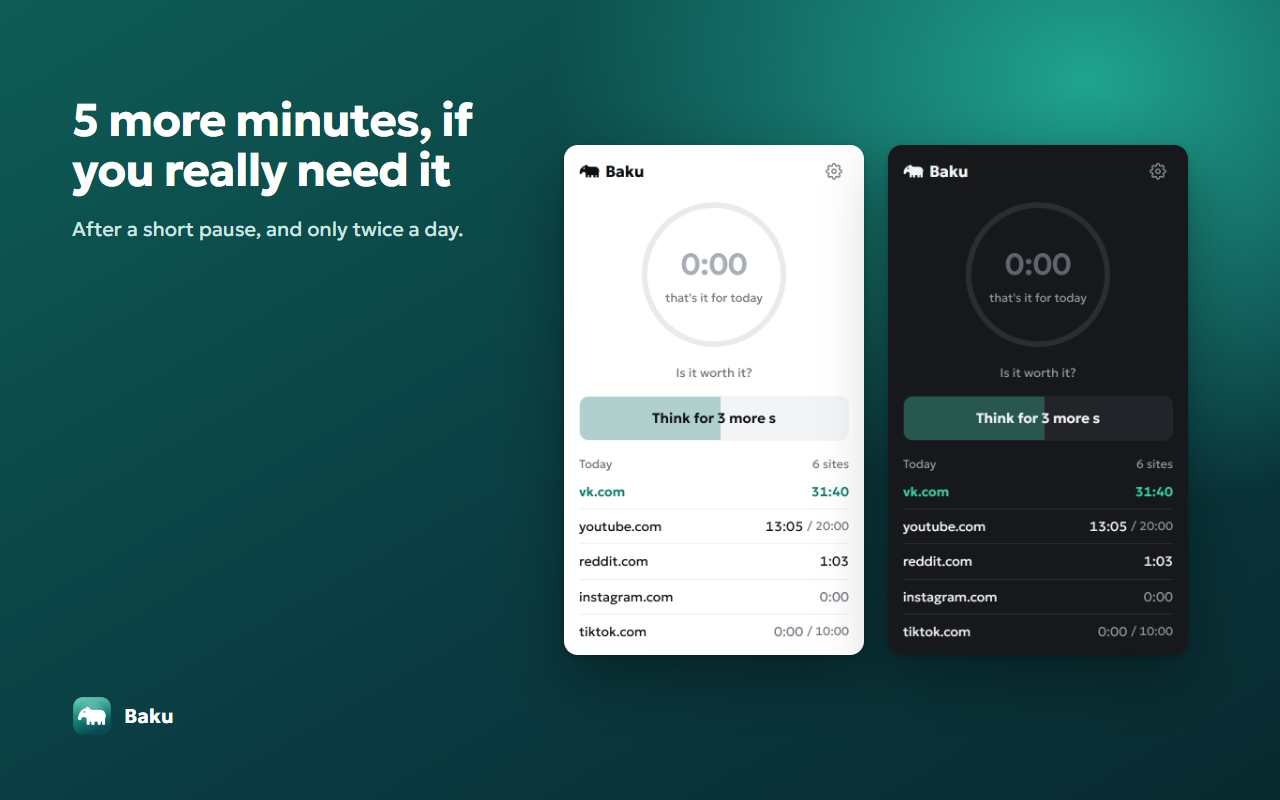
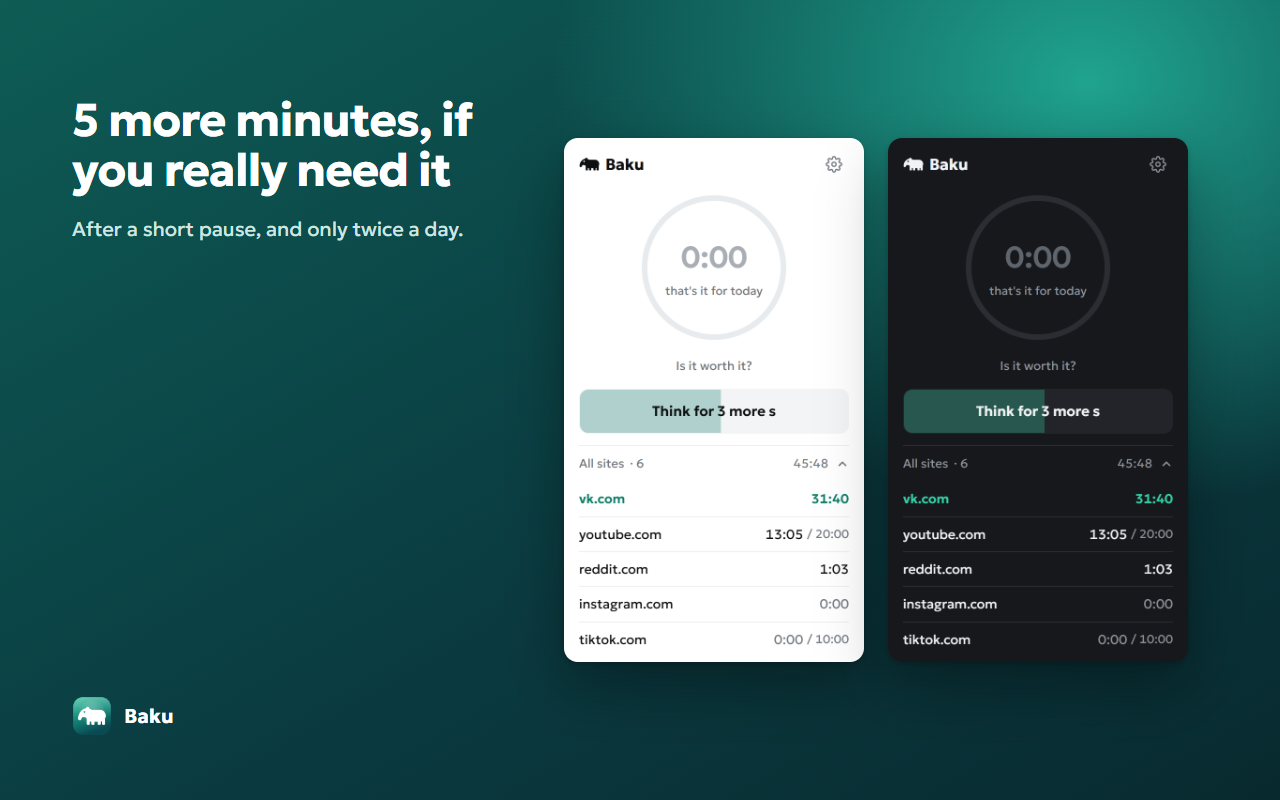
Fold the popup site list behind an 'All sites' toggle
The timer and the current site are what the popup is for; the list of
every tracked site grew the window with each site. It now sits behind a
row with the count and today's total, slides open like the settings editor
and remembers its state. Store screenshots show it unfolded.

Also add theme-color to the Pages site.

diff --git a/entrypoints/popup/main.ts b/entrypoints/popup/main.ts
@@ -76,6 +76,17 @@ async function init(): Promise<void> {
   $('cur-action').addEventListener('click', onCurrentAction);
   $('cur-switch').addEventListener('click', untrackCurrent);
   $('extra-btn').addEventListener('click', onExtra);
+  // The site list is secondary: folded by default, remembered per browser.
+  setListOpen(readListOpen());
+  $('today-toggle').addEventListener('click', () => {
+    const open = $('today').classList.contains('open');
+    setListOpen(!open);
+    try {
+      localStorage.setItem(LIST_OPEN_KEY, open ? '0' : '1');
+    } catch {
+      // Storage can be unavailable; the list just starts folded next time.
+    }
+  });
   $('pick-popular').addEventListener('click', () => {
     void browser.tabs.create({ url: browser.runtime.getURL('/welcome.html') });
     window.close();
@@ -251,7 +262,9 @@ function renderList(): void {
   const rows = [...settings.sites].sort(
     (a, b) => (usage.perSite[b] ?? 0) - (usage.perSite[a] ?? 0) || a.localeCompare(b),
   );
-  $('today-count').textContent = tp('popupSites', rows.length);
+  $('today-count').textContent = `· ${rows.length}`;
+  $('today-count').title = tp('popupSites', rows.length);
+  $('today-total').textContent = clock(rows.reduce((sum, s) => sum + (usage.perSite[s] ?? 0), 0));
   $('list').replaceChildren(
     ...rows.map((site) => {
       const secs = usage.perSite[site] ?? 0;
@@ -324,6 +337,21 @@ async function grantExtra(): Promise<void> {
 }
 
 // --- Helpers ---------------------------------------------------------------
+
+const LIST_OPEN_KEY = 'baku.listOpen';
+
+function readListOpen(): boolean {
+  try {
+    return localStorage.getItem(LIST_OPEN_KEY) === '1';
+  } catch {
+    return false;
+  }
+}
+
+function setListOpen(open: boolean): void {
+  $('today').classList.toggle('open', open);
+  $('today-toggle').setAttribute('aria-expanded', String(open));
+}
 
 function extensionsLeft(): number {
   return MAX_EXTENSIONS_PER_DAY - usage.extensionsUsed;

diff --git a/entrypoints/popup/style.css b/entrypoints/popup/style.css
@@ -300,12 +300,69 @@ button.ghost {
 
 .today-head {
   display: flex;
-  justify-content: space-between;
-  margin: 16px 0 2px;
-  font-size: 12.5px;
+  align-items: center;
+  gap: 8px;
+  width: 100%;
+  margin-top: 12px;
+  padding: 10px 0;
+  border: 0;
+  border-top: 1px solid var(--line);
+  border-radius: 0;
+  background: transparent;
   color: var(--muted);
+  font-size: 13px;
+  text-align: left;
 }
 
+.today-head:hover:not(:disabled) {
+  color: var(--text);
+  border-color: var(--line);
+}
+
+.today-head .label {
+  flex: 1;
+  display: flex;
+  gap: 6px;
+}
+
+.today-head .total {
+  font-variant-numeric: tabular-nums;
+}
+
+.today-head .chev {
+  transition: transform 0.2s ease;
+}
+
+.today.open .chev {
+  transform: rotate(180deg);
+}
+
+/* Folded by default; slides open like the editor in settings. */
+.list-wrap {
+  display: grid;
+  grid-template-rows: 0fr;
+  opacity: 0;
+  transition:
+    grid-template-rows 0.26s cubic-bezier(0.2, 0.7, 0.2, 1),
+    opacity 0.2s ease;
+}
+
+.list-wrap > div {
+  overflow: hidden;
+  min-height: 0;
+}
+
+.today.open .list-wrap {
+  grid-template-rows: 1fr;
+  opacity: 1;
+}
+
+@media (prefers-reduced-motion: reduce) {
+  .list-wrap,
+  .today-head .chev {
+    transition: none;
+  }
+}
 .list {
   list-style: none;
   margin: 0;

diff --git a/entrypoints/popup/index.html b/entrypoints/popup/index.html
@@ -88,8 +88,14 @@
 
     <!-- Tracked sites with today's time -->
     <section class="today hidden" id="today">
-      <div class="today-head"><span data-i18n="popupToday"></span><span id="today-count"></span></div>
-      <ul class="list" id="list"></ul>
+      <button class="today-head" id="today-toggle" type="button" aria-expanded="false" aria-controls="list-wrap">
+        <span class="label"><span data-i18n="popupAllSites"></span><span class="count" id="today-count"></span></span>
+        <span class="total" id="today-total"></span>
+        <svg class="chev" viewBox="0 0 16 16" width="14" height="14" aria-hidden="true">
+          <path d="M4 6l4 4 4-4" fill="none" stroke="currentColor" stroke-width="1.8" stroke-linecap="round" stroke-linejoin="round" />
+        </svg>
+      </button>
+      <div class="list-wrap" id="list-wrap"><div><ul class="list" id="list"></ul></div></div>
     </section>
 
     <script type="module" src="./main.ts"></script>

diff --git a/site/index.html b/site/index.html
@@ -6,6 +6,8 @@
 <title>Baku — хватит залипать</title>
 <meta name="description" content="Browser extension: distracting sites fade to gray when your daily limit runs out. Nothing is blocked.">
 <link rel="icon" href="icon.png">
+<meta name="theme-color" content="#f4f5f7" media="(prefers-color-scheme: light)">
+<meta name="theme-color" content="#111214" media="(prefers-color-scheme: dark)">
 <style>
 :root { --bg: #f4f5f7; --text: #0e0f11; --muted: #737880; --accent: #0d7d68; color-scheme: light dark; }
 @media (prefers-color-scheme: dark) { :root { --bg: #111214; --text: #f1f2f4; --muted: #8d939b; --accent: #34d1a8; } }

diff --git a/site/privacy.html b/site/privacy.html
@@ -5,6 +5,8 @@
 <meta name="viewport" content="width=device-width, initial-scale=1">
 <title>Baku — privacy policy</title>
 <link rel="icon" href="icon.png">
+<meta name="theme-color" content="#f4f5f7" media="(prefers-color-scheme: light)">
+<meta name="theme-color" content="#111214" media="(prefers-color-scheme: dark)">
 <style>
 :root { --bg: #f4f5f7; --surface: #fff; --text: #0e0f11; --muted: #737880; --accent: #0d7d68; color-scheme: light dark; }
 @media (prefers-color-scheme: dark) { :root { --bg: #111214; --surface: #17181b; --text: #f1f2f4; --muted: #8d939b; --accent: #34d1a8; } }

diff --git a/CLAUDE.md b/CLAUDE.md
@@ -34,7 +34,7 @@ Versions: 0.1 = the MVP mechanics (fade, time tracking, "5 more minutes"). 1.0 =
 ```
 entrypoints/background.ts   heartbeat accounting, dynamic content-script registration, toolbar badge
 entrypoints/content.ts      activity detection, heartbeats, CSS filter (registration: 'runtime')
-entrypoints/popup/          timer ring (m:ss), current-site card, today list, "5 more minutes"; 9 states, see main.ts
+entrypoints/popup/          timer ring (m:ss), current-site card, "All sites" list folded behind a toggle (state in localStorage), "5 more minutes"; 9 states, see main.ts
 entrypoints/options/        daily limit (stepper + presets), sites with today's time and own-limit editor, fade strength / speed / mode with a before/after preview
 entrypoints/welcome/        onboarding on first install: illustration, pick sites + daily limit
 utils/state.ts              Settings/Usage types, defaults, limit math (limitSeconds/usedSeconds/grantExtension), fade math
